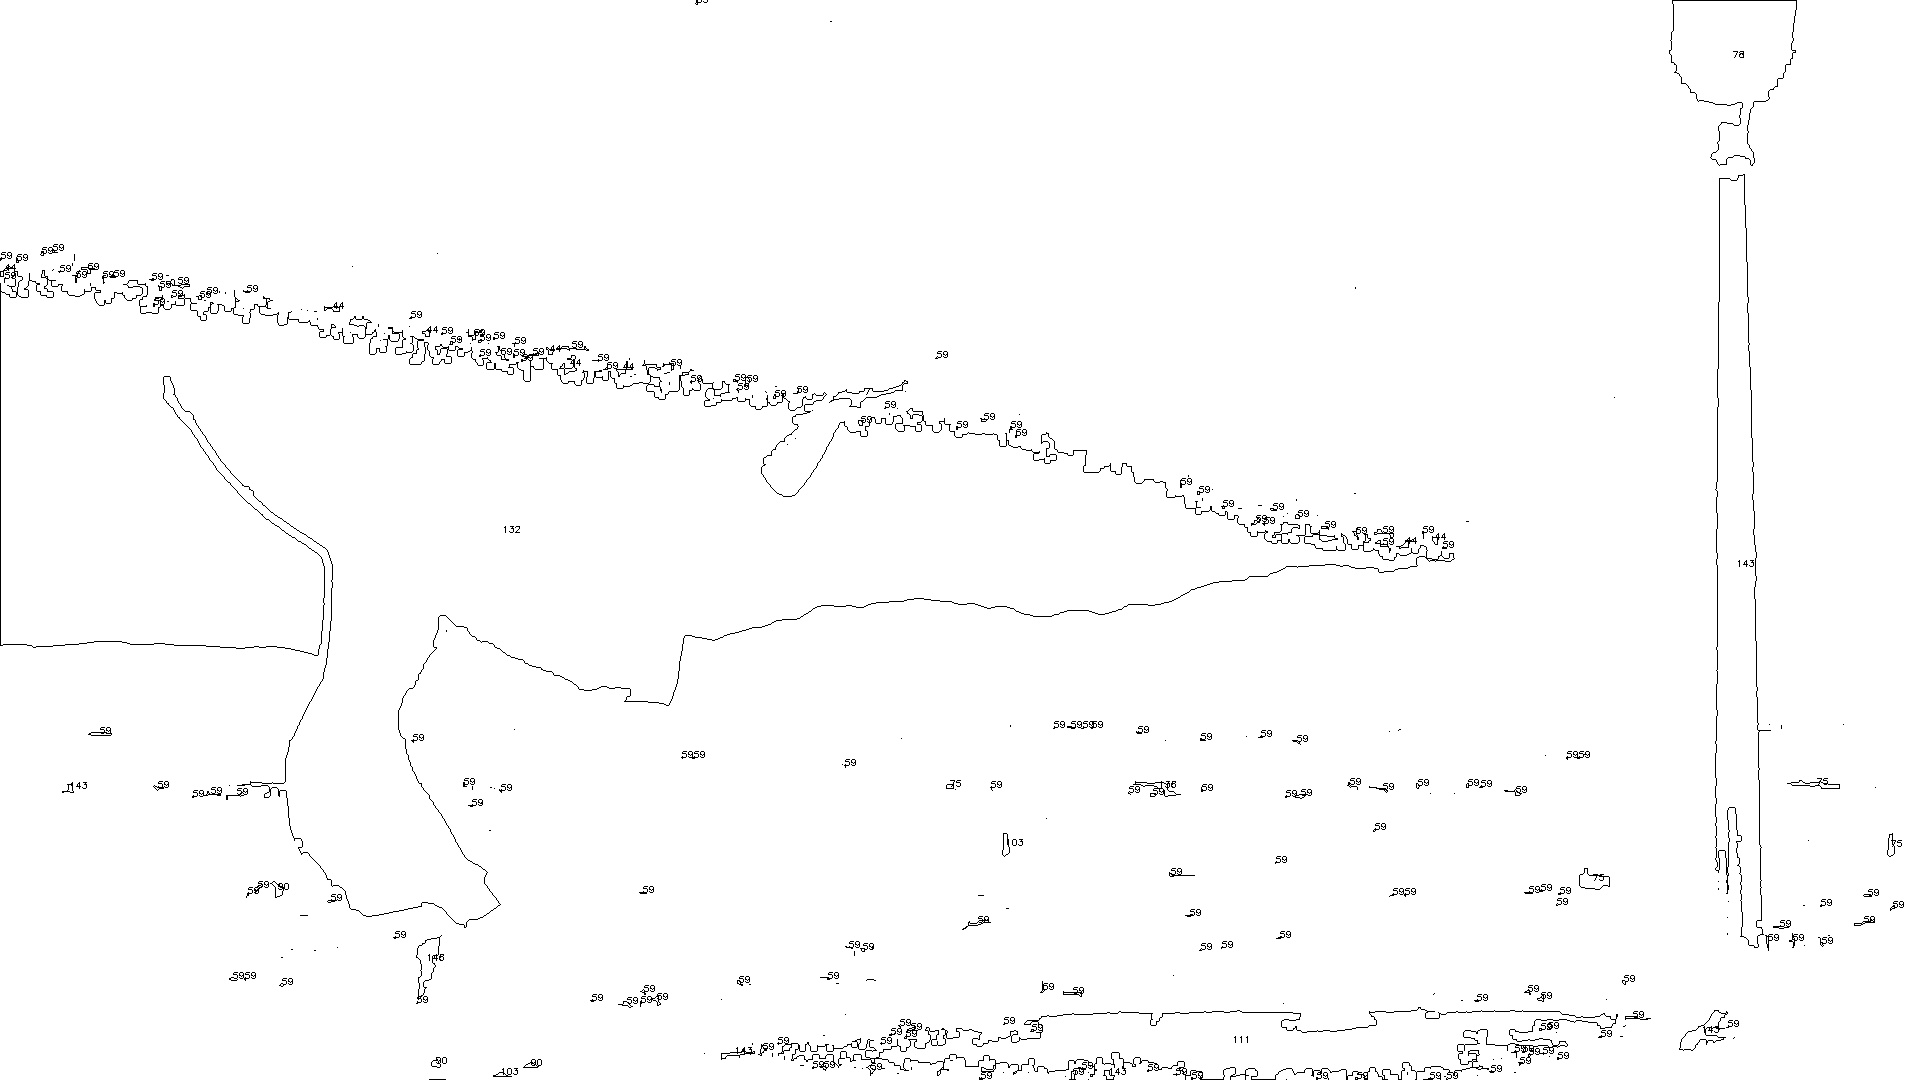
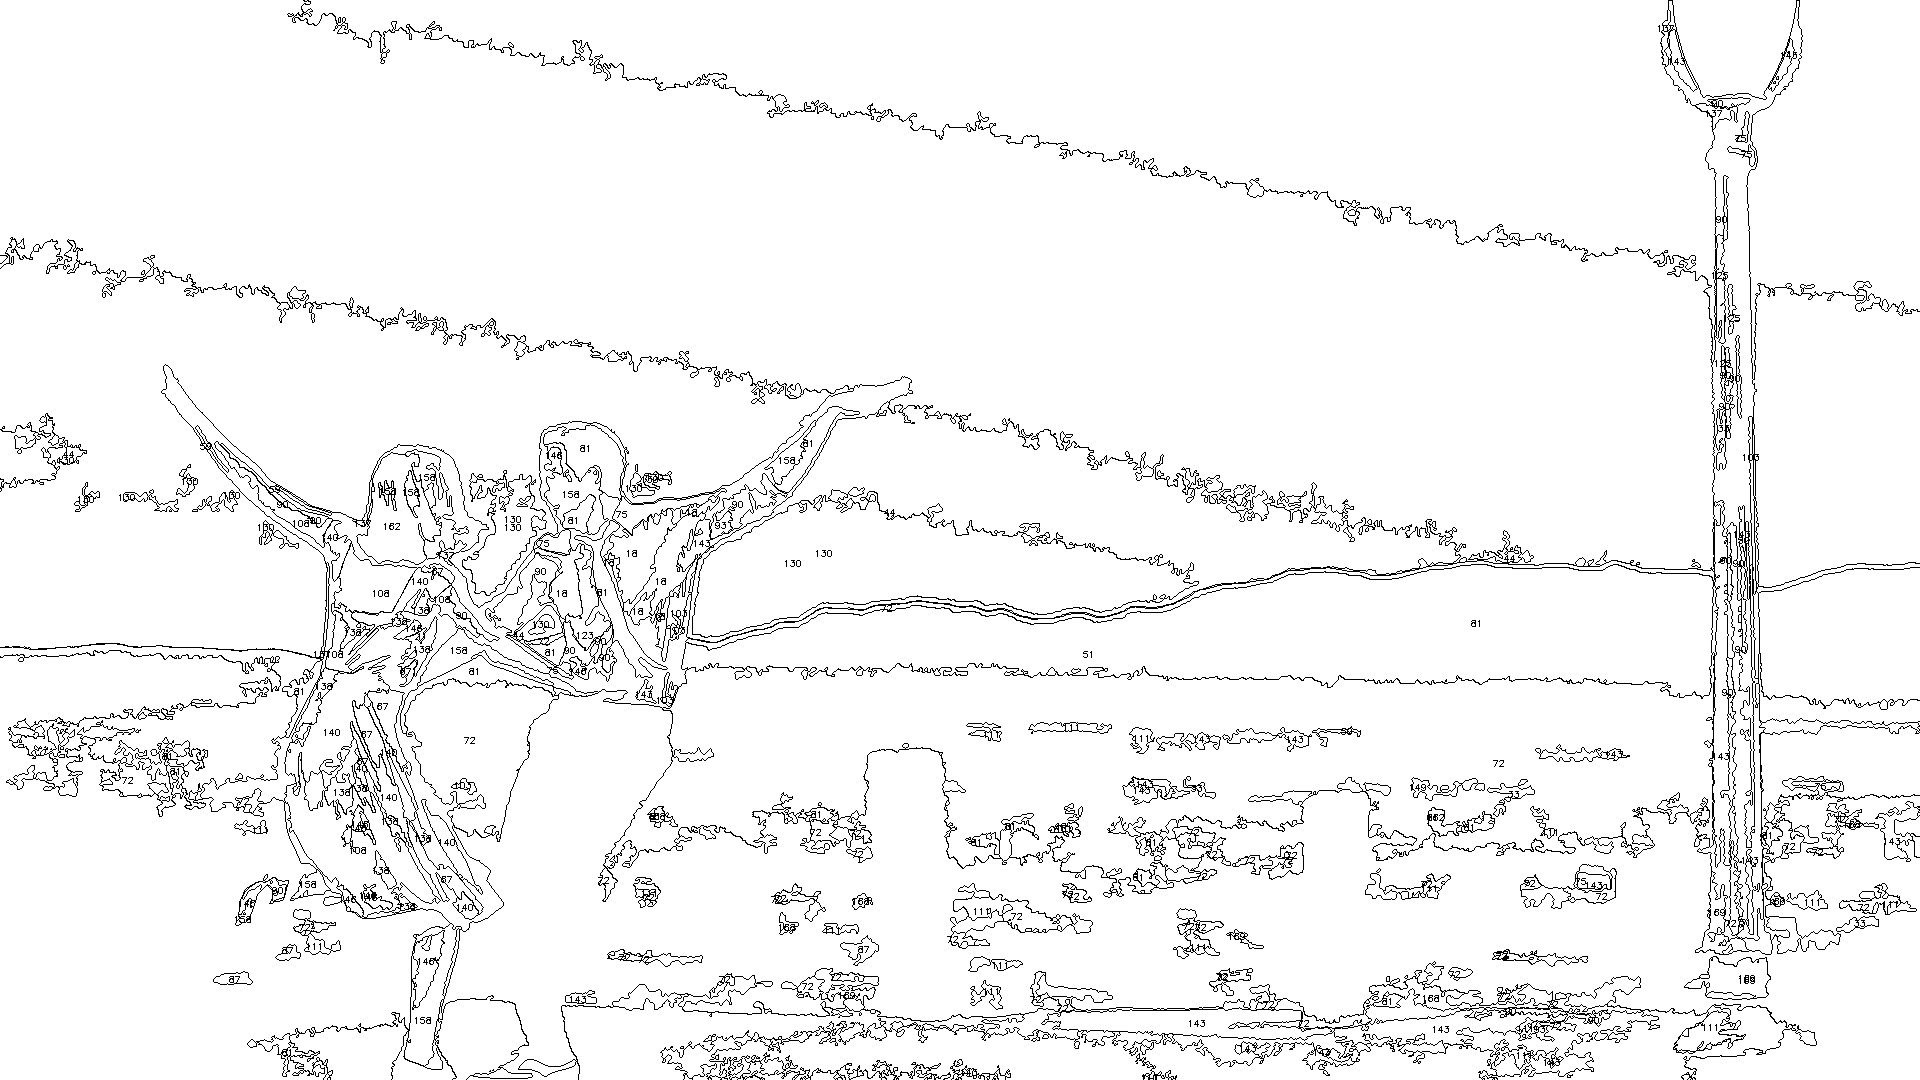
numbering fix

diff --git a/web/static/js/diy_func.js b/web/static/js/diy_func.js
@@ -1,6 +1,6 @@
 $(window).on('load', function(){
-    // var image_path = '../static/org_image/222.jpg';
-    var image_path = '../static/org_image/iron.png';
+    var image_path = '../static/org_image/lala.jpg';
+    // var image_path = '../static/org_image/iron.png';
     var pic_size = 600;
 
     var brush_cursor = document.querySelector('.brush_cursor');

diff --git a/libs/imageProcessing.py b/libs/imageProcessing.py
@@ -334,7 +334,7 @@ def setColorNumberFromContours(img, thresh, contours, hierarchy, img_lab, lab, c
         n_white_pix = np.sum(raw_dist == 255)
 
         # 작은 컨투어 무시
-        if n_white_pix < 1000: continue
+        if n_white_pix < 200: continue
 
         # ret, raw_dist = cv2.threshold(raw_dist, 0, 255, cv2.THRESH_BINARY)
         center = getRadiusCenterCircle3(raw_dist)
